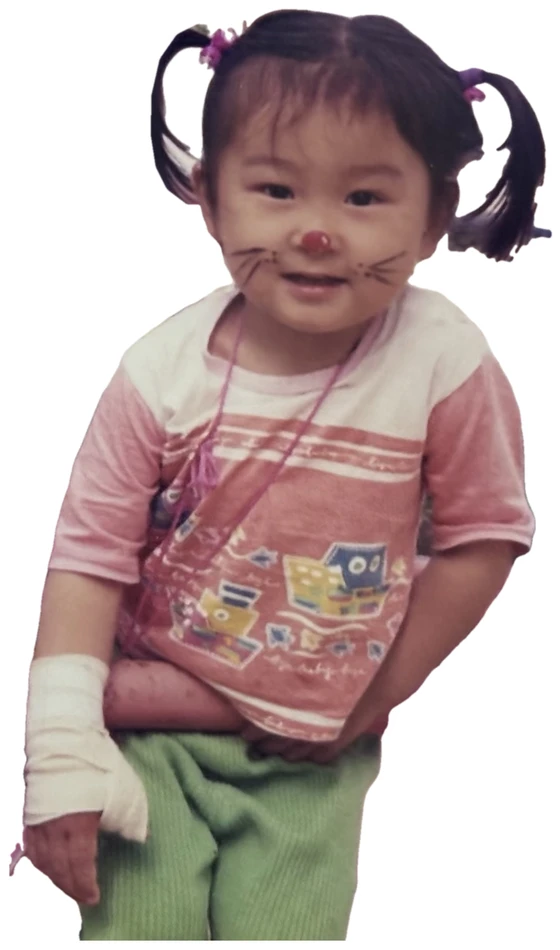
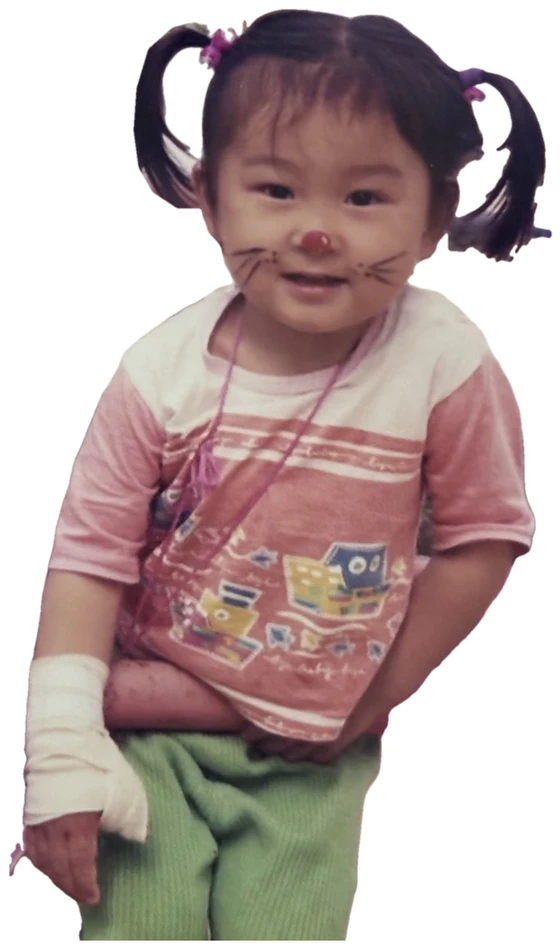
v5: fuller left pigtail on 가영 sticker
Claude-Session: https://claude.ai/code/session_0199kwzThmkJ9gjgMp94kiiT

Changed region(s): [[0.2125, 0.0, 0.3643, 0.2442]]

diff --git a/v5/index.html b/v5/index.html
@@ -582,7 +582,7 @@ html.rv-on .rv.in { opacity: 1; transform: none; }
       </figure>
       <div class="fam-kids">
         <picture class="fam-kid kid-l"><source srcset="f/gy3.webp" type="image/webp"><img src="f/gy3.png" alt="어린 시절의 가영" width="560" height="738" loading="lazy" decoding="async"></picture>
-        <picture class="fam-kid kid2 kid-r"><source srcset="f/gy2.webp?v=2" type="image/webp"><img src="f/gy2.png?v=2" alt="고양이 분장을 한 어린 가영" width="560" height="950" loading="lazy" decoding="async"></picture>
+        <picture class="fam-kid kid2 kid-r"><source srcset="f/gy2.webp?v=3" type="image/webp"><img src="f/gy2.png?v=3" alt="고양이 분장을 한 어린 가영" width="560" height="950" loading="lazy" decoding="async"></picture>
       </div>
       <div class="fam-letters">
         <article class="pletter pletter-hand">
@@ -962,7 +962,7 @@ html.rv-on .rv.in { opacity: 1; transform: none; }
 (function () {
   /* ▼ 여기만 바꾸면 됩니다 ▼ */
   var KAKAO_JS_KEY = '1e75ce76e7372491e4b502ebba8c8f0d';
-  var VER          = '11081902';   // 업데이트할 때마다 바뀌는 번호 — 카톡이 예전 페이지를 다시 보여주지 않게
+  var VER          = '11081905';   // 업데이트할 때마다 바뀌는 번호 — 카톡이 예전 페이지를 다시 보여주지 않게
   var SITE_URL     = 'https://hsjeong14.github.io/wedding/v5/?v=' + VER;          // 청첩장 주소
   var MAP_URL      = 'https://hsjeong14.github.io/wedding/v5/?v=' + VER + '#location'; // '식장 위치 보기'가 열 주소
   var IMAGE_URL    = 'https://hsjeong14.github.io/wedding/share-v5.jpg';  // 900 x 1200 (3:4) 세로 썸네일
